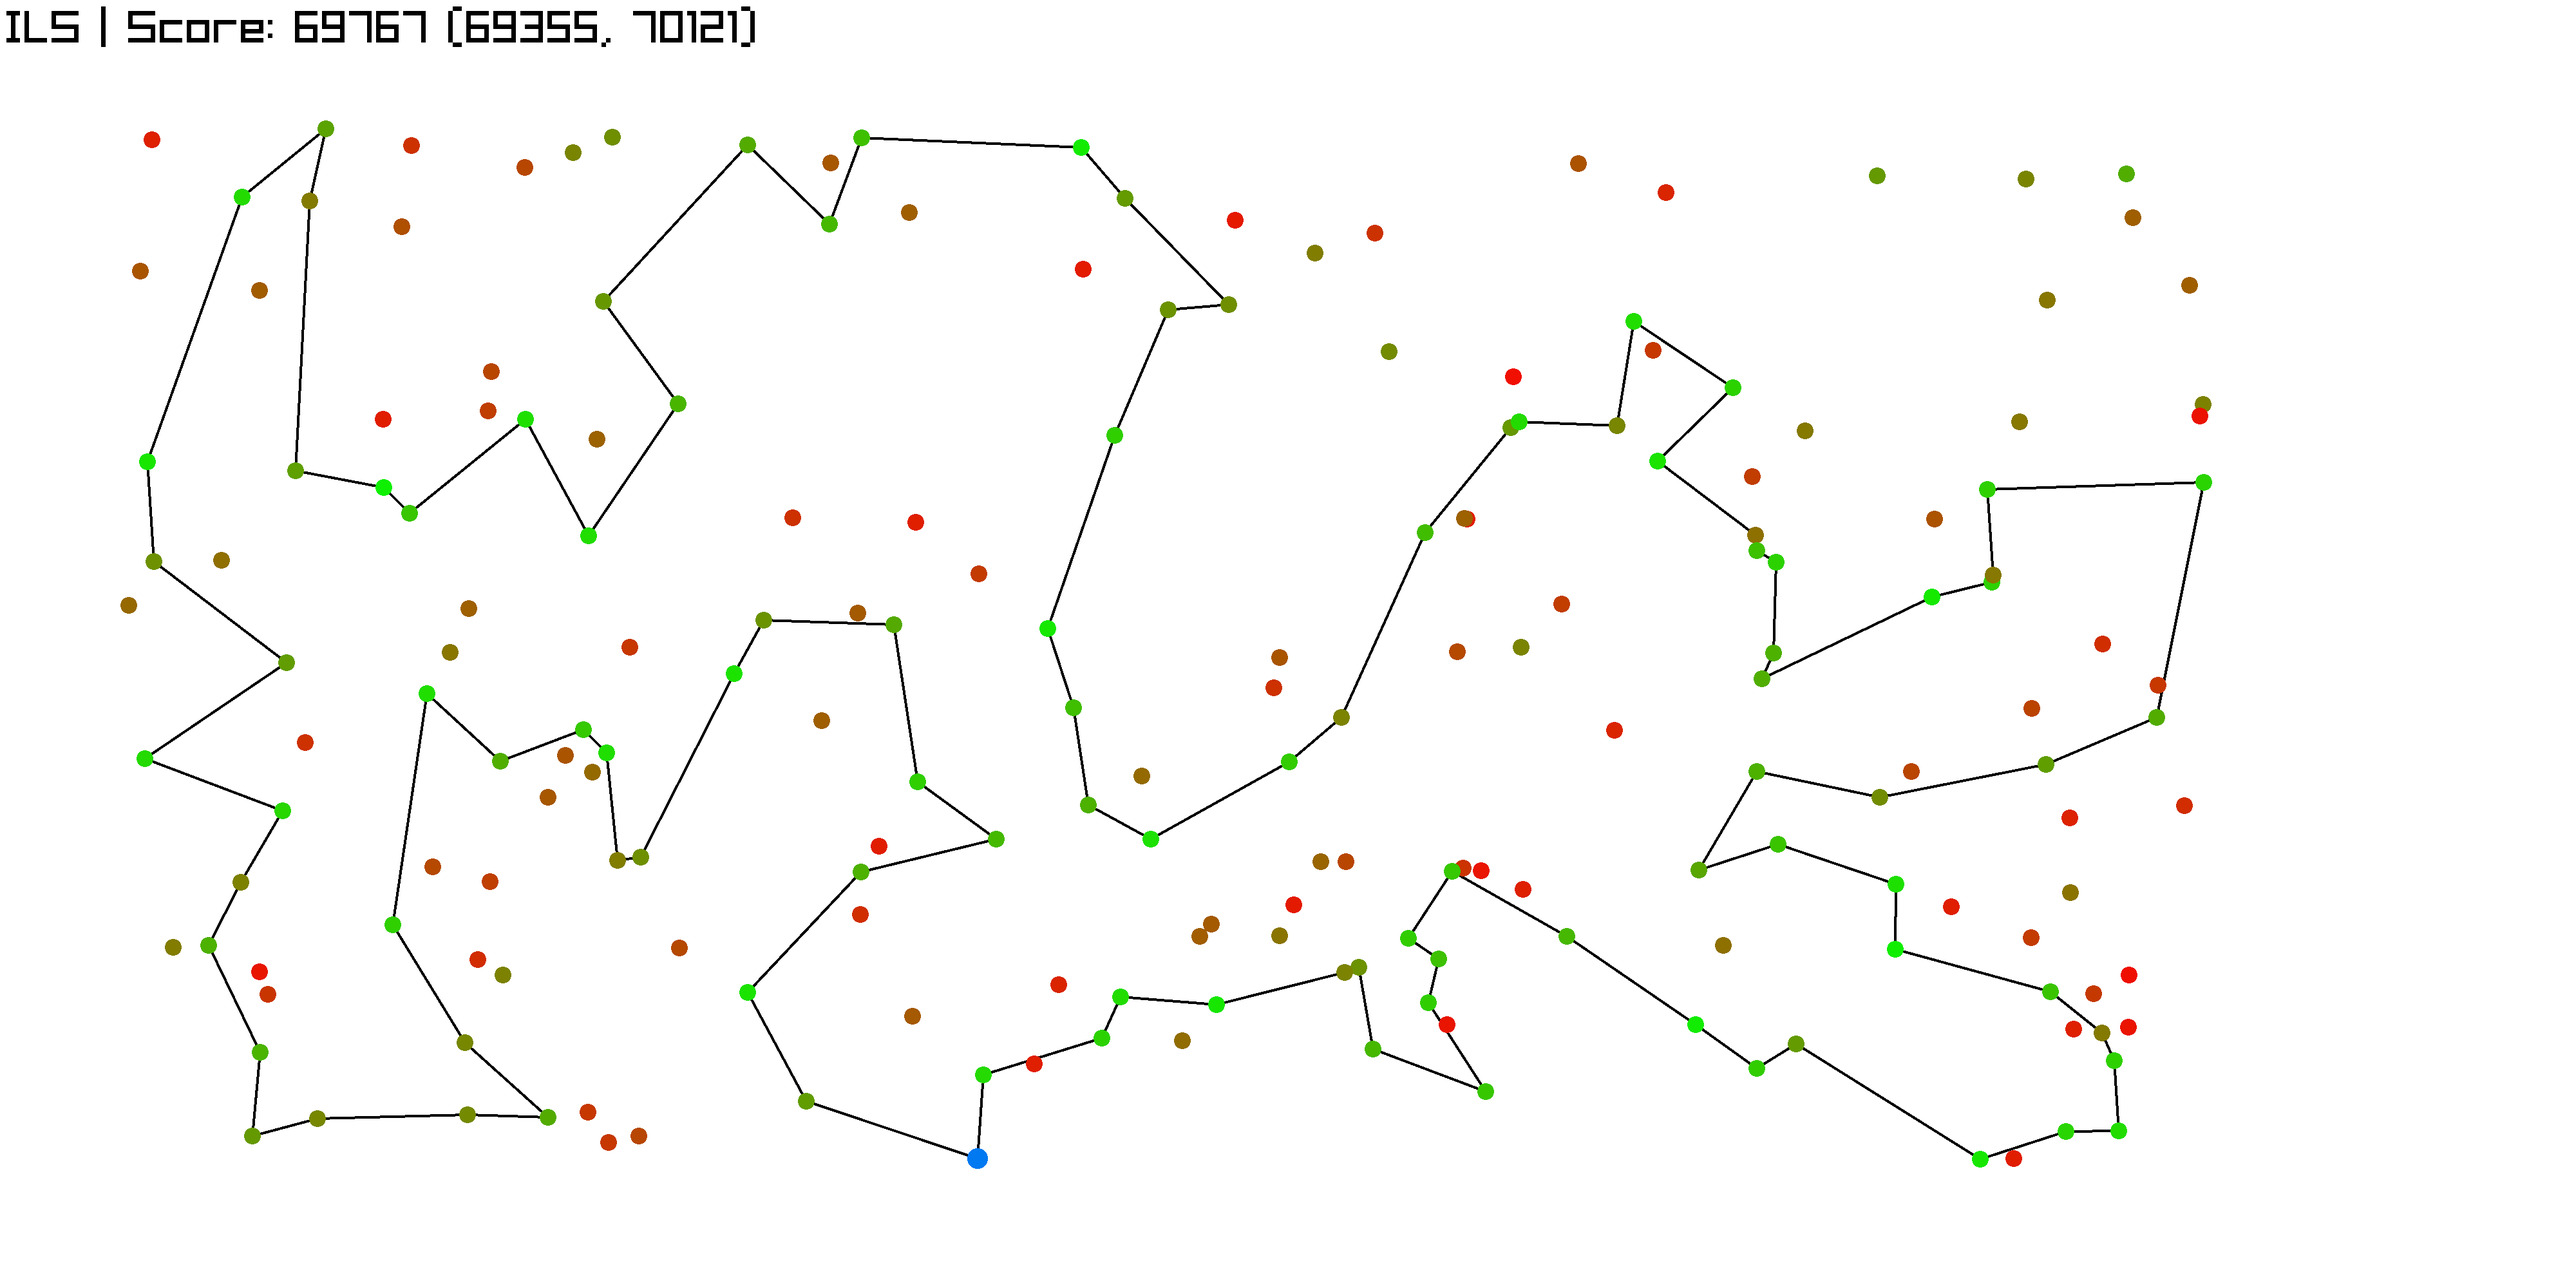
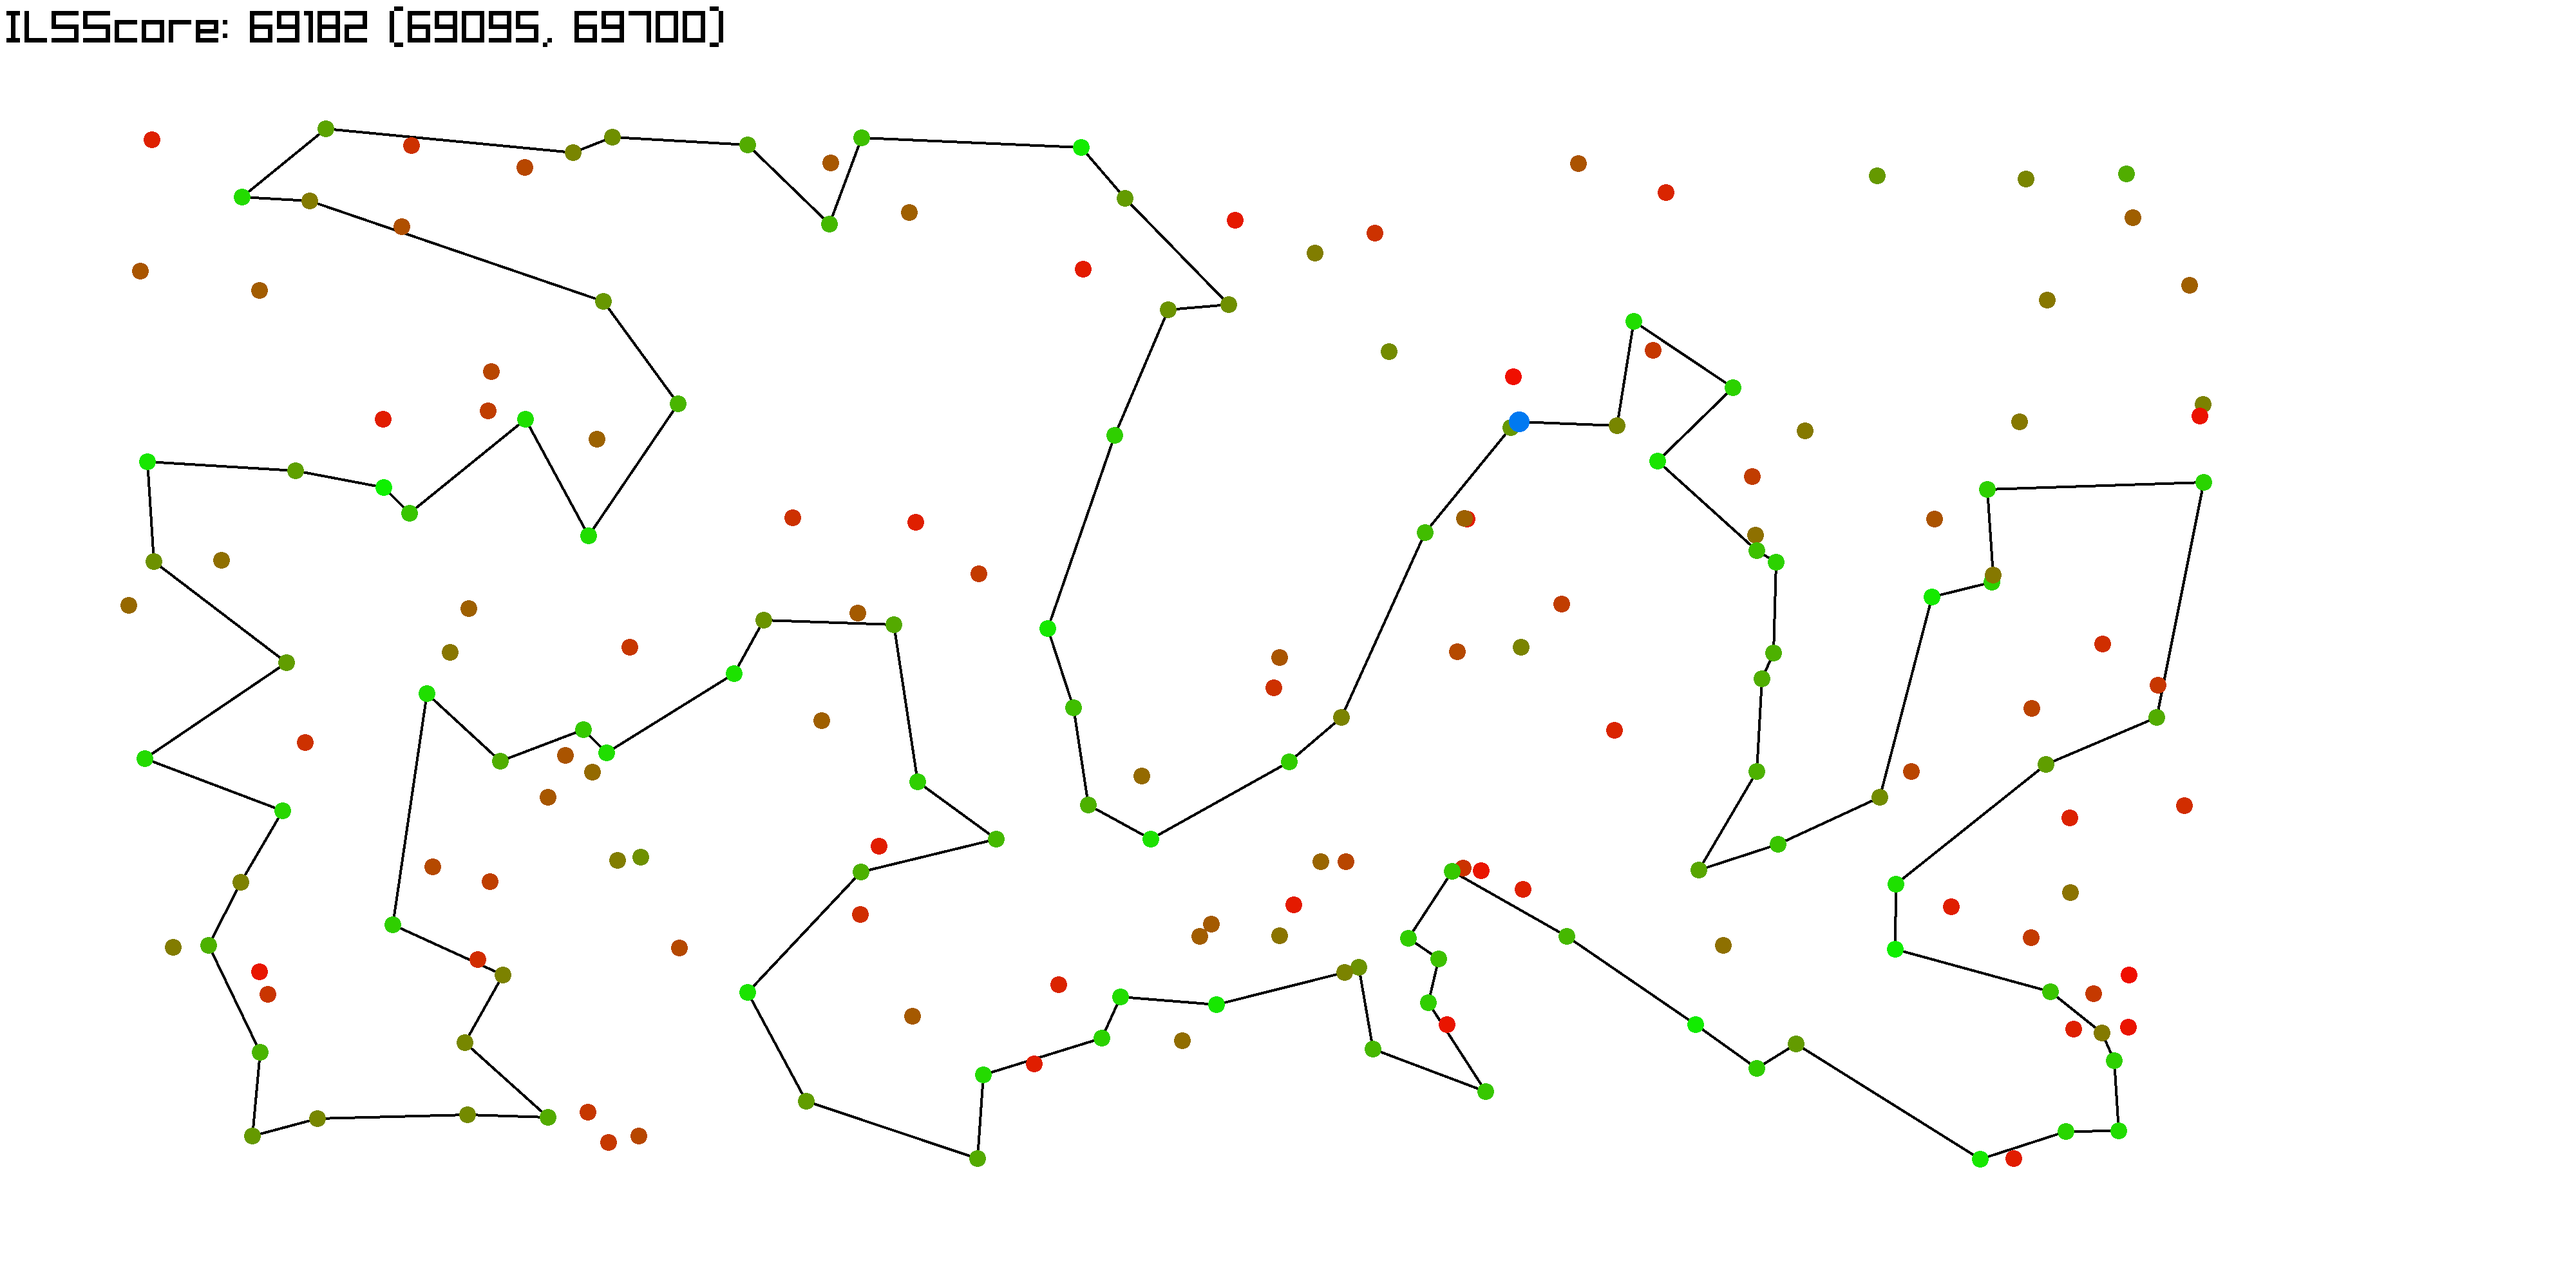
feat: benchmarking and stopping condition

Changed region(s): [[0.0312, 0.0, 0.3125, 0.031], [0.5625, 0.31, 0.5938, 0.341]]

diff --git a/lab06/main.cpp b/lab06/main.cpp
@@ -6,38 +6,85 @@
 
 void benchmark_solutions(const std::vector<Node> &dataset, CostMatrix dist, const std::string &suffix)
 {
-
-
     {
         std::vector<Solution> solutions;
+        std::vector<double> iteration_times;
 
         for (size_t i = 0; i < 20; i++)
         {
             std::cout << "MSLS: " << i << std::endl;
+            auto start = std::chrono::high_resolution_clock::now();
             Solution final_solution = get_multiple_start_local_search(dataset, dist);
+            auto end = std::chrono::high_resolution_clock::now();
+            std::chrono::duration<double, std::milli> duration = end - start;
+            iteration_times.push_back(duration.count());
             solutions.push_back(final_solution);
         }
+        double total_time = 0.0, min_time = iteration_times[0], max_time = iteration_times[0];
+        for (double t : iteration_times)
+        {
+            total_time += t;
+            if (t < min_time)
+                min_time = t;
+            if (t > max_time)
+                max_time = t;
+        }
+        double avg_time = total_time / iteration_times.size();
+        std::cout << "MSLS | Avg time: " << std::fixed << std::setprecision(2) << avg_time
+                  << " ms (" << min_time << ", " << max_time << ") \n";
 
         std::cout << "MSLS";
 
-        std::string lore = "MSLS | ";
+        std::string lore = std::string("MSLS");
 
         std::string filename = "msls" + suffix;
         print_stats(solutions, dataset, dist, filename, lore);
     }
     {
         std::vector<Solution> solutions;
+        std::vector<double> iteration_times;
+        std::vector<int> ls_counts;
 
         for (size_t i = 0; i < 20; i++)
         {
             std::cout << "ILS: " << i << std::endl;
-            Solution final_solution = get_iterated_local_search(dataset, dist);
-            solutions.push_back(final_solution);
+            auto start = std::chrono::high_resolution_clock::now();
+            auto res = get_iterated_local_search(dataset, dist);
+            auto end = std::chrono::high_resolution_clock::now();
+            std::chrono::duration<double, std::milli> duration = end - start;
+            iteration_times.push_back(duration.count());
+            solutions.push_back(res.solution);
+            ls_counts.push_back(res.ls_runs);
         }
+        double total_time = 0.0, min_time = iteration_times[0], max_time = iteration_times[0];
+        for (double t : iteration_times)
+        {
+            total_time += t;
+            if (t < min_time)
+                min_time = t;
+            if (t > max_time)
+                max_time = t;
+        }
+        double avg_time = total_time / iteration_times.size();
+        std::cout << "ILS | Avg time: " << std::fixed << std::setprecision(2) << avg_time
+                  << " ms (" << min_time << ", " << max_time << ") \n";
+
+        int total_ls = 0, min_ls = ls_counts[0], max_ls = ls_counts[0];
+        for (int count : ls_counts)
+        {
+            total_ls += count;
+            if (count < min_ls)
+                min_ls = count;
+            if (count > max_ls)
+                max_ls = count;
+        }
+        double avg_ls = (double)total_ls / ls_counts.size();
+        std::cout << "ILS | Avg LS runs: " << std::fixed << std::setprecision(2) << avg_ls
+                  << " (" << min_ls << ", " << max_ls << ") \n";
 
         std::cout << "ILS";
 
-        std::string lore = "ILS | ";
+        std::string lore = std::string("ILS");
 
         std::string filename = "ils" + suffix;
         print_stats(solutions, dataset, dist, filename, lore);

diff --git a/lib/solverlib.cpp b/lib/solverlib.cpp
@@ -12,6 +12,7 @@
 #include <random>
 #include <sstream>
 #include <utility>
+#include <chrono>
 
 #define panicf(__format, ...) \
     do { \
@@ -1343,19 +1344,39 @@ Solution perturbate(Solution solution, const Dataset &dataset) {
     return solution;
 }
 
-Solution get_iterated_local_search(Dataset dataset, CostMatrix dist) {
+struct ILS_Result {
+    Solution solution;
+    int ls_runs;
+};
+
+
+ILS_Result get_iterated_local_search(const Dataset &dataset, const CostMatrix &dist)
+{
+    int ls_runs = 0;
+    auto start_time = std::chrono::high_resolution_clock::now();
+    
     Solution seed = get_random_solution(dataset);
     Solution best = get_local_search_steepest(seed, dataset, dist, INTRA_ROUTE_EDGE_EXCHANGE);
     int best_score = compute_total_cost(best, dist);
+    ls_runs++;
 
-    for (int i = 0; i < 200; i++) {
+    while (true) {
+        auto current_time = std::chrono::high_resolution_clock::now();
+        std::chrono::duration<double> elapsed = current_time - start_time;
+        if (elapsed.count() >= 2.943)
+            break;
+
+        ls_runs++;
         Solution pert = perturbate(best, dataset);
         Solution candidate = get_local_search_steepest(pert, dataset, dist, INTRA_ROUTE_EDGE_EXCHANGE);
         int score = compute_total_cost(candidate, dist);
-        if(best_score > score) {
+        if(score < best_score)
+        {
             best_score = score;
             best = candidate;
         }
     }
-    return best;
+
+    return { best, ls_runs };
 }
+
